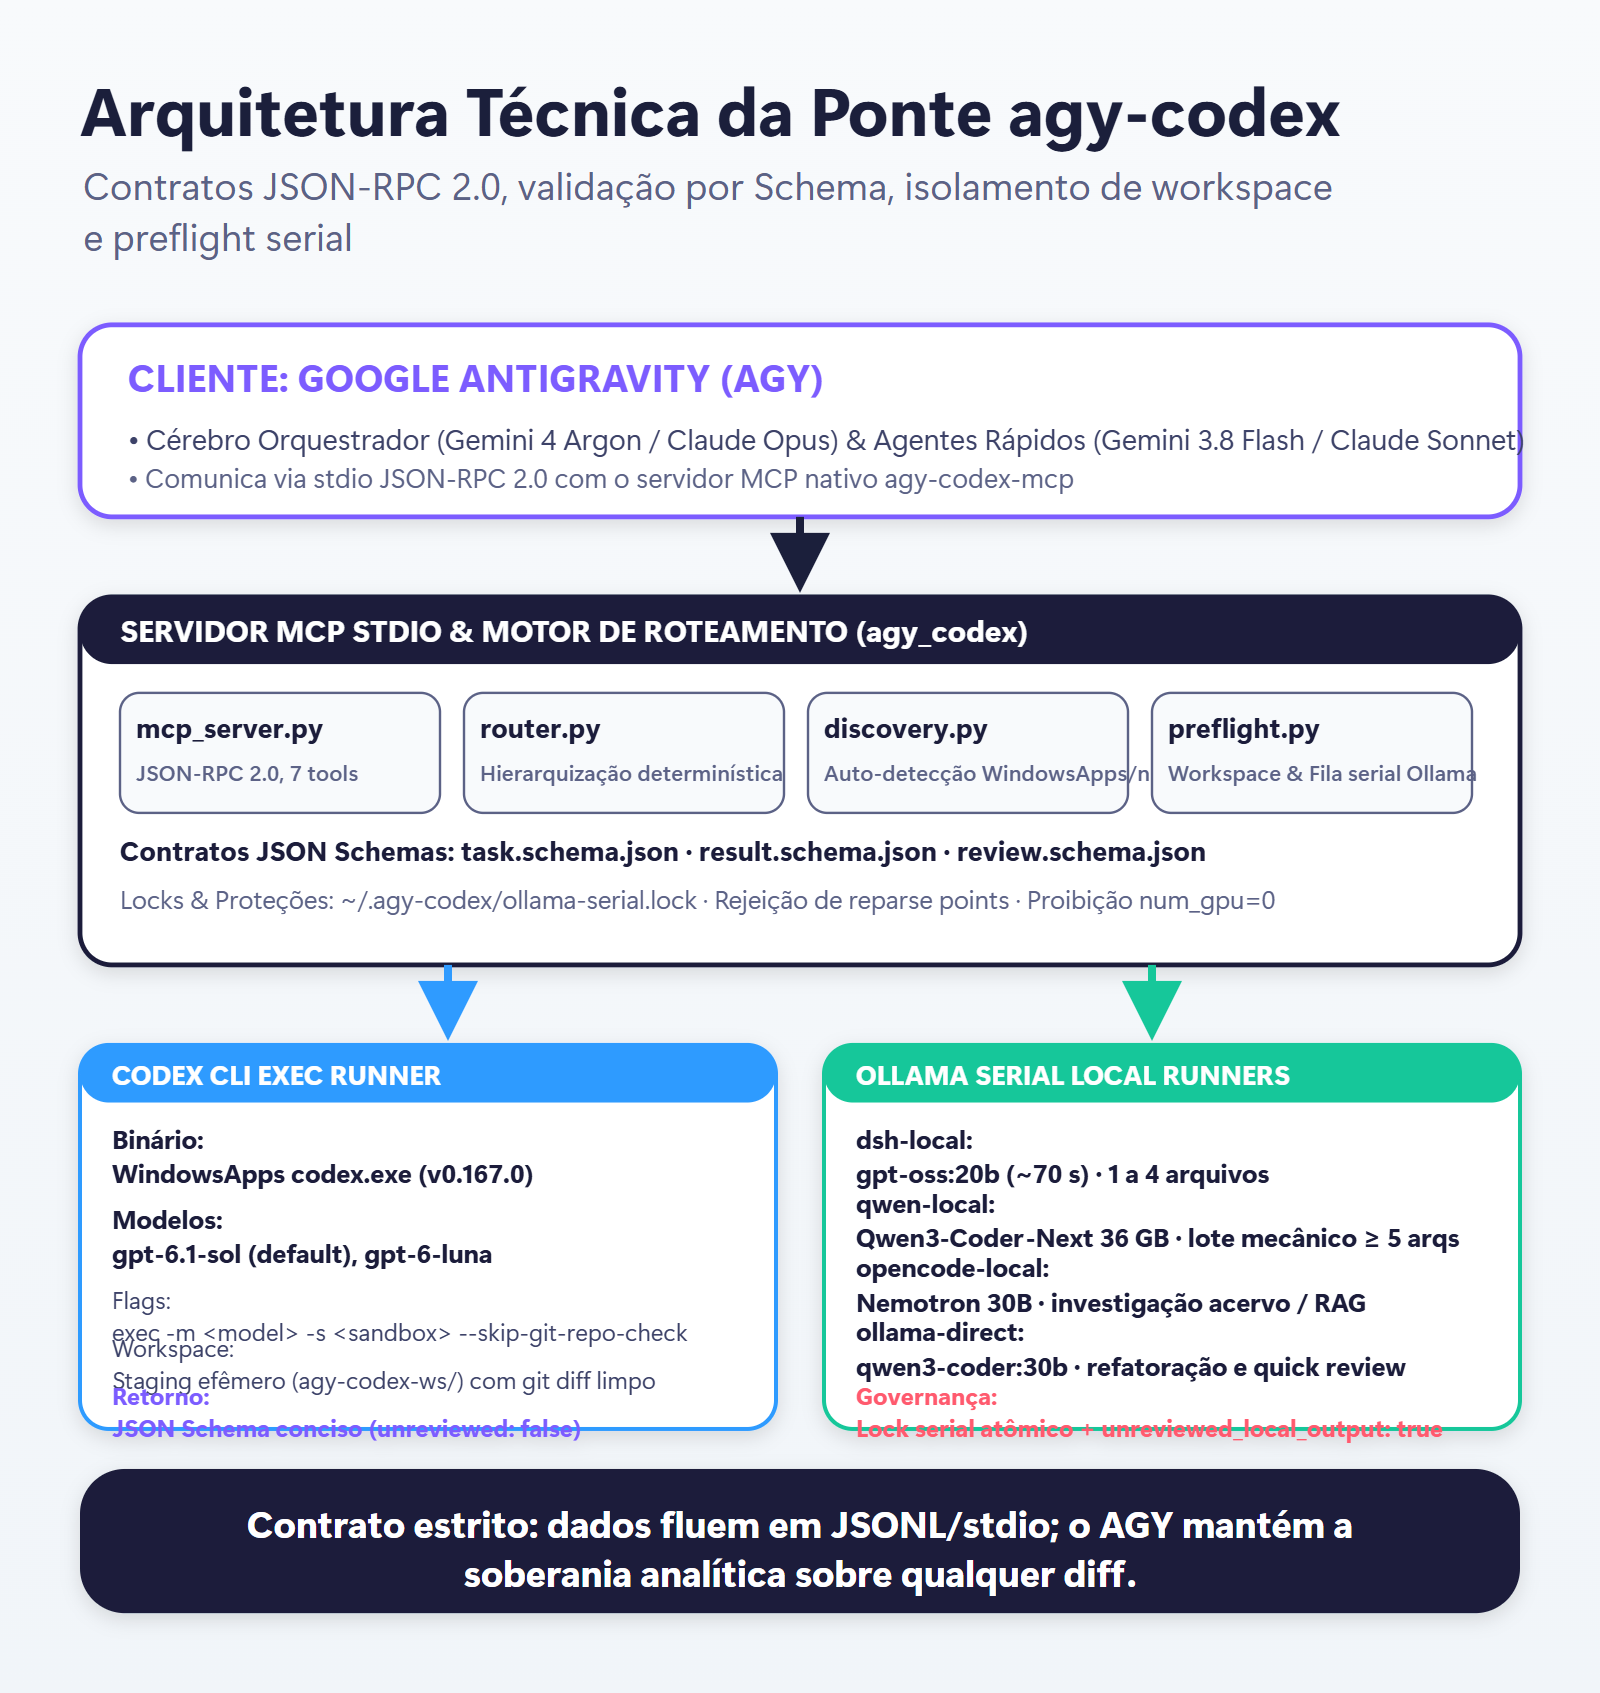
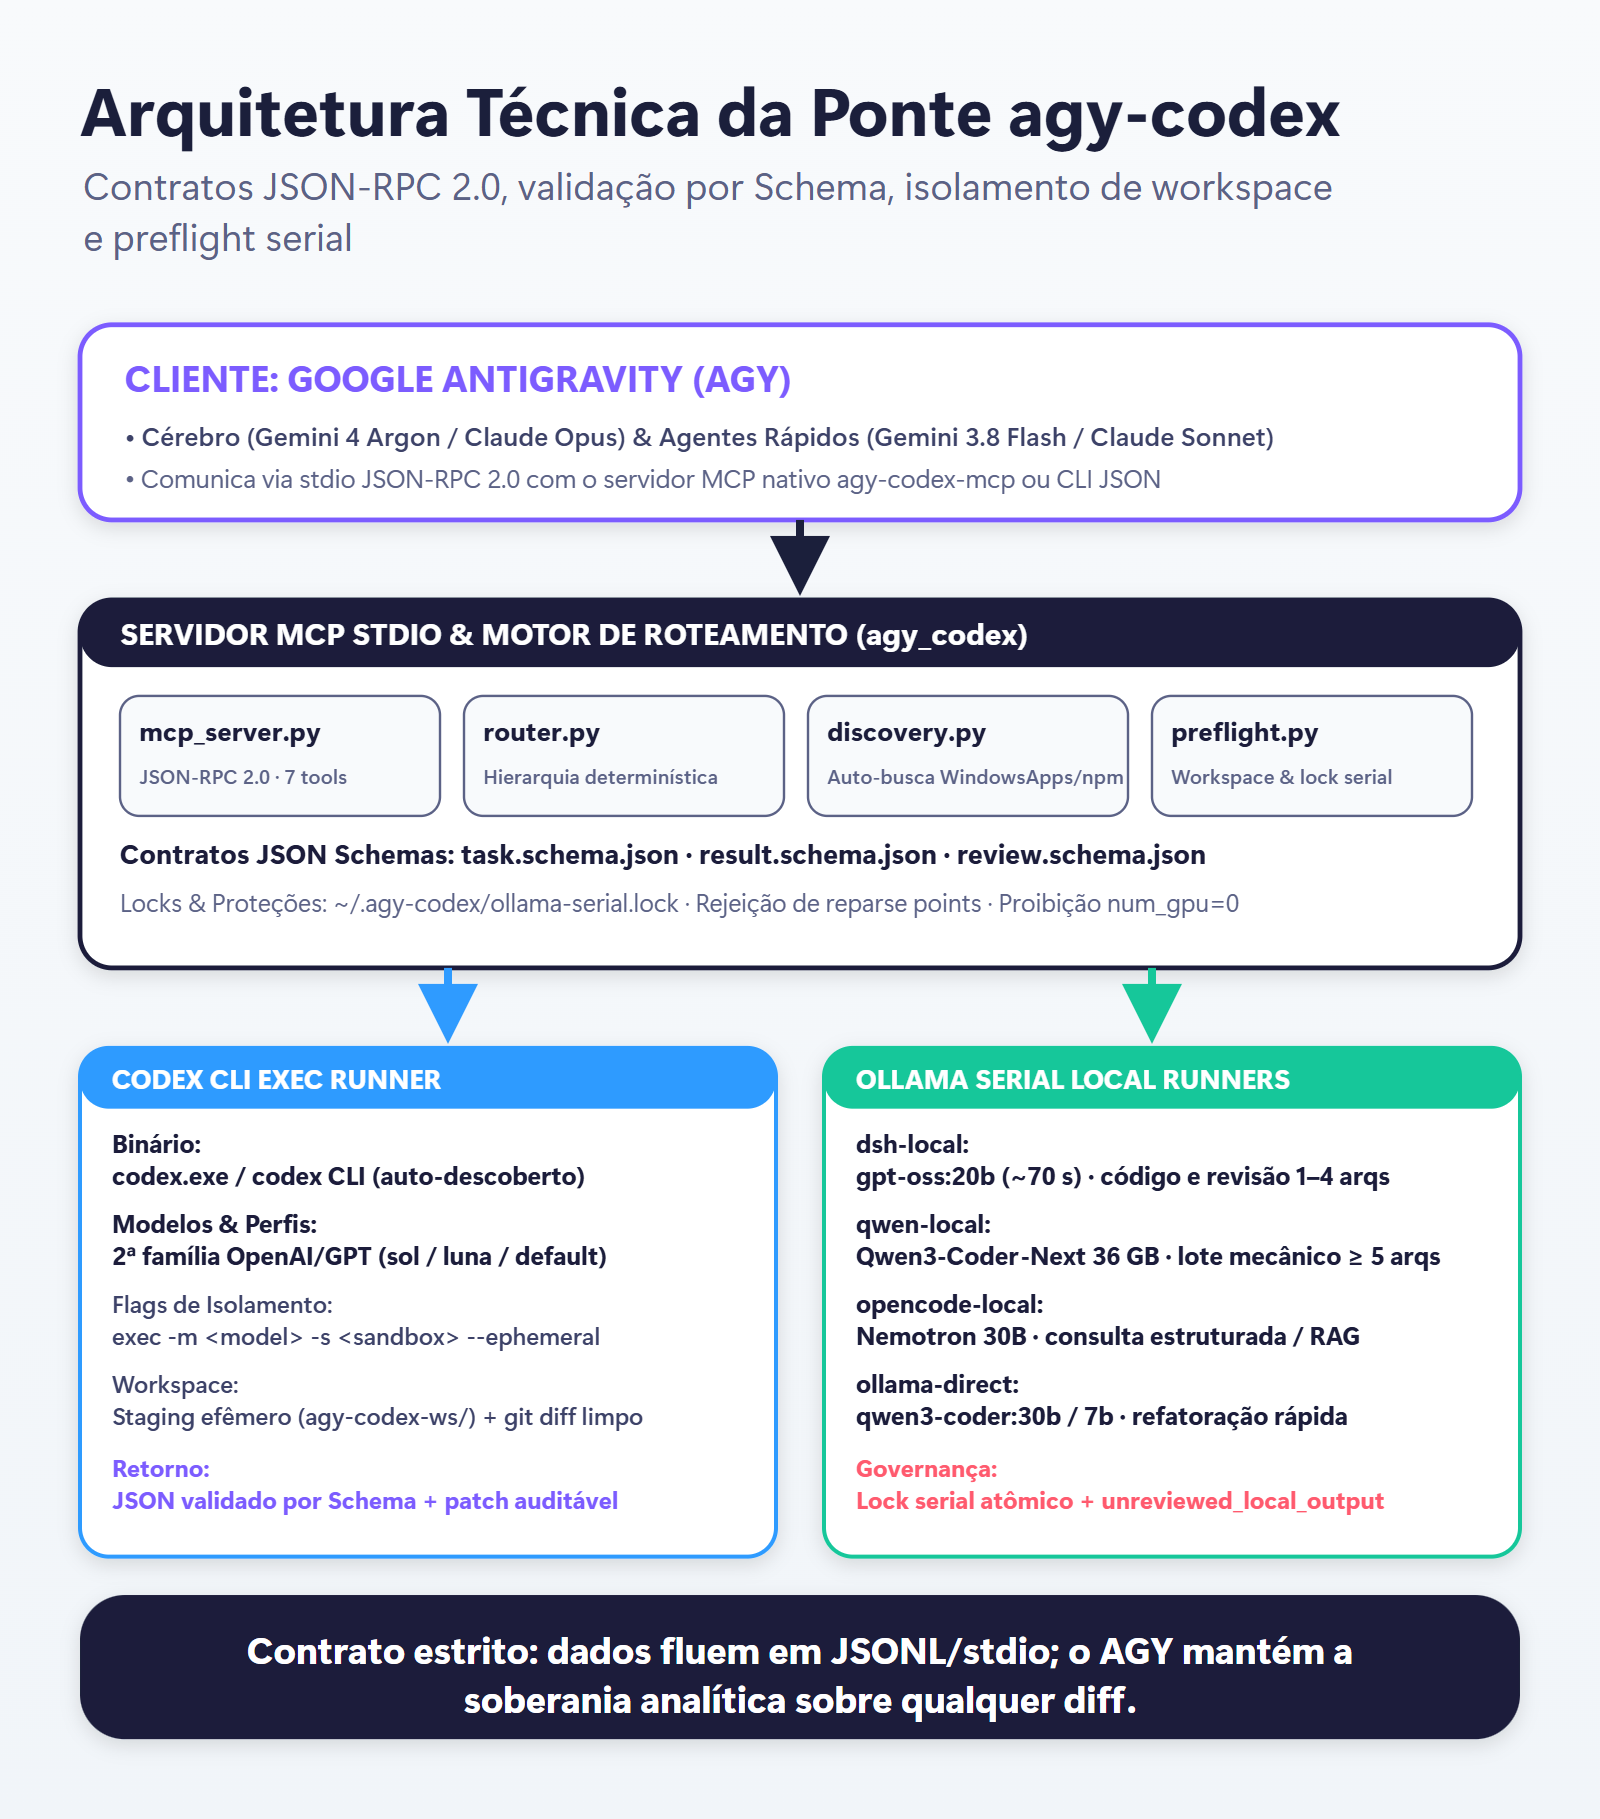
chore(docs): refine Motion hierarchy and technical bridge diagrams

Changed region(s): [[0.0312, 0.0307, 0.9688, 0.9829]]

diff --git a/scripts/gerar_diagramas.py b/scripts/gerar_diagramas.py
@@ -159,19 +159,20 @@ def gerar_diagrama_hierarquia_motion(out_dir):
     s += f'<line x1="500" y1="{y}" x2="500" y2="{y + 65}" stroke="{NAVY}" stroke-width="6" stroke-dasharray="3 12" stroke-linecap="round" marker-end="url(#ar)"/>'
     y += 75
 
-    # Hub Central (r=118, texto 22px com folga interna confortável)
-    cy = y + 118
-    s += f'<circle cx="500" cy="{cy}" r="118" fill="{NAVY}" stroke="#fff" stroke-width="8" filter="url(#sh)"/>'
-    s += tx(500, cy - 12, ["PONTE AGY → OPERÁRIAS"], 22, "#fff", 900, "middle")
-    s += tx(500, cy + 20, ["MCP stdio · CLI JSON · Preflight"], 16, "#fff", 600, "middle")
-    y = cy + 118 + 24
+    # Hub Central (r=124, texto em duas linhas com ampla folga interna)
+    cy = y + 124
+    s += f'<circle cx="500" cy="{cy}" r="124" fill="{NAVY}" stroke="#fff" stroke-width="8" filter="url(#sh)"/>'
+    s += tx(500, cy - 26, ["PONTE", "AGY → OPERÁRIAS"], 22, "#fff", 900, "middle", 28)
+    s += tx(500, cy + 42, ["MCP stdio · CLI JSON · Preflight"], 15, "#fff", 600, "middle")
+    y = cy + 124 + 18
 
-    # Bifurcação: Duas setas pontilhadas partindo do hub para as duas colunas
-    # Esquerda (Azul): aponta para x=270, y=y+65
-    s += f'<line x1="420" y1="{y - 10}" x2="270" y2="{y + 65}" stroke="{AZUL}" stroke-width="6" stroke-dasharray="3 12" stroke-linecap="round" marker-end="url(#ar_blue)"/>'
-    # Direita (Menta): aponta para x=730, y=y+65
-    s += f'<line x1="580" y1="{y - 10}" x2="730" y2="{y + 65}" stroke="{MENTA}" stroke-width="6" stroke-dasharray="3 12" stroke-linecap="round" marker-end="url(#ar_mint)"/>'
-    y += 85
+    # Bifurcação ortogonal limpa do hub para as duas colunas (Nível 2A e Nível 2B)
+    y_mid = y + 26
+    s += f'<line x1="500" y1="{y}" x2="500" y2="{y_mid}" stroke="{NAVY}" stroke-width="5" stroke-linecap="round"/>'
+    s += f'<line x1="270" y1="{y_mid}" x2="730" y2="{y_mid}" stroke="{NAVY}" stroke-width="5" stroke-linecap="round"/>'
+    s += f'<line x1="270" y1="{y_mid}" x2="270" y2="{y + 72}" stroke="{AZUL}" stroke-width="6" stroke-dasharray="3 11" stroke-linecap="round" marker-end="url(#ar_blue)"/>'
+    s += f'<line x1="730" y1="{y_mid}" x2="730" y2="{y + 72}" stroke="{MENTA}" stroke-width="6" stroke-dasharray="3 11" stroke-linecap="round" marker-end="url(#ar_mint)"/>'
+    y += 90
 
     # Nível 2: 2 Colunas Simétricas
     col_w = 440
@@ -238,12 +239,12 @@ def gerar_diagrama_arquitetura_ponte(out_dir):
     s = cabs
 
     # Bloco 1: AGY Core MCP Client
-    s += f'<g filter="url(#sh)"><rect x="50" y="{y}" width="900" height="120" rx="20" fill="#fff" stroke="{VIOLETA}" stroke-width="3"/>'
-    s += tx(80, y + 42, ["CLIENTE: GOOGLE ANTIGRAVITY (AGY)"], 24, VIOLETA, 800)
-    s += tx(80, y + 78, ["• Cérebro Orquestrador (Gemini 4 Argon / Claude Opus) & Agentes Rápidos (Gemini 3.8 Flash / Claude Sonnet)"], 18, TEXTO, 400)
-    s += tx(80, y + 102, ["• Comunica via stdio JSON-RPC 2.0 com o servidor MCP nativo agy-codex-mcp"], 17, CINZ, 400)
+    s += f'<g filter="url(#sh)"><rect x="50" y="{y}" width="900" height="122" rx="20" fill="#fff" stroke="{VIOLETA}" stroke-width="3"/>'
+    s += tx(78, y + 42, ["CLIENTE: GOOGLE ANTIGRAVITY (AGY)"], 23, VIOLETA, 800)
+    s += tx(78, y + 76, ["• Cérebro (Gemini 4 Argon / Claude Opus) & Agentes Rápidos (Gemini 3.8 Flash / Claude Sonnet)"], 16.5, TEXTO, 500)
+    s += tx(78, y + 102, ["• Comunica via stdio JSON-RPC 2.0 com o servidor MCP nativo agy-codex-mcp ou CLI JSON"], 16, CINZ, 400)
     s += '</g>'
-    y += 140
+    y += 142
 
     # Seta para baixo
     s += f'<line x1="500" y1="{y - 20}" x2="500" y2="{y + 20}" stroke="{NAVY}" stroke-width="5" marker-end="url(#ar)"/>'
@@ -256,20 +257,20 @@ def gerar_diagrama_arquitetura_ponte(out_dir):
 
     # 4 Módulos internos
     mods = [
-        ("mcp_server.py", "JSON-RPC 2.0, 7 tools"),
-        ("router.py", "Hierarquização determinística"),
-        ("discovery.py", "Auto-detecção WindowsApps/npm"),
-        ("preflight.py", "Workspace & Fila serial Ollama")
+        ("mcp_server.py", "JSON-RPC 2.0 · 7 tools"),
+        ("router.py", "Hierarquia determinística"),
+        ("discovery.py", "Auto-busca WindowsApps/npm"),
+        ("preflight.py", "Workspace & lock serial")
     ]
     for i, (mod_t, mod_d) in enumerate(mods):
         bx = 75 + i * 215
         s += f'<rect x="{bx}" y="{y + 60}" width="200" height="75" rx="12" fill="#F8FAFC" stroke="{CINZ}" stroke-width="1.5"/>'
-        s += tx(bx + 10, y + 88, [mod_t], 17, NAVY, 800)
-        s += tx(bx + 10, y + 115, [mod_d], 14, CINZ, 500)
+        s += tx(bx + 12, y + 88, [mod_t], 16.5, NAVY, 800)
+        s += tx(bx + 12, y + 115, [mod_d], 12.8, CINZ, 500)
 
     # Contratos
     s += tx(75, y + 165, ["Contratos JSON Schemas: task.schema.json  ·  result.schema.json  ·  review.schema.json"], 17, NAVY, 700)
-    s += tx(75, y + 195, ["Locks & Proteções: ~/.agy-codex/ollama-serial.lock  ·  Rejeição de reparse points  ·  Proibição num_gpu=0"], 16, CINZ, 400)
+    s += tx(75, y + 195, ["Locks & Proteções: ~/.agy-codex/ollama-serial.lock  ·  Rejeição de reparse points  ·  Proibição num_gpu=0"], 15.5, CINZ, 400)
     s += '</g>'
     y += 250
 
@@ -282,29 +283,30 @@ def gerar_diagrama_arquitetura_ponte(out_dir):
     col_w = 435
     x_esq = 50
     x_dir = 515
+    box_h = 318
 
     # Coluna Esquerda: Codex CLI Runner
-    s += f'<g filter="url(#sh)"><rect x="{x_esq}" y="{y}" width="{col_w}" height="240" rx="18" fill="#fff" stroke="{AZUL}" stroke-width="2.5"/>'
-    s += f'<rect x="{x_esq}" y="{y}" width="{col_w}" height="36" rx="18" fill="{AZUL}"/>'
-    s += tx(x_esq + 20, y + 25, ["CODEX CLI EXEC RUNNER"], 17, "#fff", 800)
-    s += tx(x_esq + 20, y + 65, ["Binário:", "WindowsApps codex.exe (v0.167.0)"], 16, NAVY, 700)
-    s += tx(x_esq + 20, y + 115, ["Modelos:", "gpt-6.1-sol (default), gpt-6-luna"], 16, NAVY, 700)
-    s += tx(x_esq + 20, y + 165, ["Flags:", "exec -m <model> -s <sandbox> --skip-git-repo-check"], 15, TEXTO, 400)
-    s += tx(x_esq + 20, y + 195, ["Workspace:", "Staging efêmero (agy-codex-ws/) com git diff limpo"], 15, TEXTO, 400)
-    s += tx(x_esq + 20, y + 225, ["Retorno:", "JSON Schema conciso (unreviewed: false)"], 15, VIOLETA, 700)
+    s += f'<g filter="url(#sh)"><rect x="{x_esq}" y="{y}" width="{col_w}" height="{box_h}" rx="18" fill="#fff" stroke="{AZUL}" stroke-width="2.5"/>'
+    s += f'<rect x="{x_esq}" y="{y}" width="{col_w}" height="38" rx="18" fill="{AZUL}"/>'
+    s += tx(x_esq + 20, y + 26, ["CODEX CLI EXEC RUNNER"], 17, "#fff", 800)
+    s += tx(x_esq + 20, y + 66, ["Binário:", "codex.exe / codex CLI (auto-descoberto)"], 15.5, NAVY, 700, dy=20)
+    s += tx(x_esq + 20, y + 116, ["Modelos & Perfis:", "2ª família OpenAI/GPT (sol / luna / default)"], 15.5, NAVY, 700, dy=20)
+    s += tx(x_esq + 20, y + 166, ["Flags de Isolamento:", "exec -m <model> -s <sandbox> --ephemeral"], 15, TEXTO, 500, dy=20)
+    s += tx(x_esq + 20, y + 216, ["Workspace:", "Staging efêmero (agy-codex-ws/) + git diff limpo"], 15, TEXTO, 500, dy=20)
+    s += tx(x_esq + 20, y + 268, ["Retorno:", "JSON validado por Schema + patch auditável"], 15, VIOLETA, 700, dy=20)
     s += '</g>'
 
     # Coluna Direita: Local Ollama Runners
-    s += f'<g filter="url(#sh)"><rect x="{x_dir}" y="{y}" width="{col_w}" height="240" rx="18" fill="#fff" stroke="{MENTA}" stroke-width="2.5"/>'
-    s += f'<rect x="{x_dir}" y="{y}" width="{col_w}" height="36" rx="18" fill="{MENTA}"/>'
-    s += tx(x_dir + 20, y + 25, ["OLLAMA SERIAL LOCAL RUNNERS"], 17, "#fff", 800)
-    s += tx(x_dir + 20, y + 65, ["dsh-local:", "gpt-oss:20b (~70 s) · 1 a 4 arquivos"], 16, NAVY, 700)
-    s += tx(x_dir + 20, y + 105, ["qwen-local:", "Qwen3-Coder-Next 36 GB · lote mecânico ≥ 5 arqs"], 16, NAVY, 700)
-    s += tx(x_dir + 20, y + 145, ["opencode-local:", "Nemotron 30B · investigação acervo / RAG"], 16, NAVY, 700)
-    s += tx(x_dir + 20, y + 185, ["ollama-direct:", "qwen3-coder:30b · refatoração e quick review"], 16, NAVY, 700)
-    s += tx(x_dir + 20, y + 225, ["Governança:", "Lock serial atômico + unreviewed_local_output: true"], 15, CORAL, 700)
+    s += f'<g filter="url(#sh)"><rect x="{x_dir}" y="{y}" width="{col_w}" height="{box_h}" rx="18" fill="#fff" stroke="{MENTA}" stroke-width="2.5"/>'
+    s += f'<rect x="{x_dir}" y="{y}" width="{col_w}" height="38" rx="18" fill="{MENTA}"/>'
+    s += tx(x_dir + 20, y + 26, ["OLLAMA SERIAL LOCAL RUNNERS"], 17, "#fff", 800)
+    s += tx(x_dir + 20, y + 66, ["dsh-local:", "gpt-oss:20b (~70 s) · código e revisão 1–4 arqs"], 15.5, NAVY, 700, dy=20)
+    s += tx(x_dir + 20, y + 116, ["qwen-local:", "Qwen3-Coder-Next 36 GB · lote mecânico ≥ 5 arqs"], 15.5, NAVY, 700, dy=20)
+    s += tx(x_dir + 20, y + 166, ["opencode-local:", "Nemotron 30B · consulta estruturada / RAG"], 15.5, NAVY, 700, dy=20)
+    s += tx(x_dir + 20, y + 216, ["ollama-direct:", "qwen3-coder:30b / 7b · refatoração rápida"], 15.5, NAVY, 700, dy=20)
+    s += tx(x_dir + 20, y + 268, ["Governança:", "Lock serial atômico + unreviewed_local_output"], 15, CORAL, 700, dy=20)
     s += '</g>'
-    y += 265
+    y += box_h + 24
 
     # Faixa Final
     s_faixa, y = faixa(y, "Contrato estrito: dados fluem em JSONL/stdio; o AGY mantém a soberania analítica sobre qualquer diff.")
@@ -314,24 +316,21 @@ def gerar_diagrama_arquitetura_ponte(out_dir):
 
 
 if __name__ == "__main__":
-    base_brain = Path(r"<USER_HOME>\.gemini\antigravity\brain\91722515-812c-4032-bfb8-e030c5c881f8")
-    base_brain.mkdir(parents=True, exist_ok=True)
-
-    dest_priv = Path(r"C:\Github\agy-codex\docs")
-    dest_pub = Path(r"C:\Github\TN-PUBLIC-CANDIDATES\TN-agy-codex\docs")
-    dest_priv.mkdir(parents=True, exist_ok=True)
-    dest_pub.mkdir(parents=True, exist_ok=True)
+    repo_root = Path(__file__).resolve().parent.parent
+    dest_docs = Path(sys.argv[1]) if len(sys.argv) > 1 else (repo_root / "docs")
+    dest_docs.mkdir(parents=True, exist_ok=True)
 
     print("1/2 Gerando Diagrama Motion da Hierarquização...")
-    s1, p1 = gerar_diagrama_hierarquia_motion(dest_priv)
-    shutil.copy(s1, dest_pub / "hierarquia-motion.svg")
-    shutil.copy(p1, dest_pub / "hierarquia-motion.png")
-    shutil.copy(p1, base_brain / "motion-agy-codex-hierarquia.png")
+    s1, p1 = gerar_diagrama_hierarquia_motion(dest_docs)
 
     print("2/2 Gerando Diagrama Técnico da Ponte (Okabe-Ito)...")
-    s2, p2 = gerar_diagrama_arquitetura_ponte(dest_priv)
-    shutil.copy(s2, dest_pub / "arquitetura-ponte.svg")
-    shutil.copy(p2, dest_pub / "arquitetura-ponte.png")
-    shutil.copy(p2, base_brain / "arquitetura-ponte-agy-codex.png")
+    s2, p2 = gerar_diagrama_arquitetura_ponte(dest_docs)
 
-    print("Diagramas gerados com sucesso e copiados para docs/ e para o brain do Cérebro!")
+    extra_dir = os.environ.get("AGY_BRAIN_OUT", "")
+    if extra_dir:
+        eb = Path(extra_dir)
+        eb.mkdir(parents=True, exist_ok=True)
+        shutil.copy(p1, eb / "motion-agy-codex-hierarquia.png")
+        shutil.copy(p2, eb / "arquitetura-ponte-agy-codex.png")
+
+    print("Diagramas gerados com sucesso em:", dest_docs)
